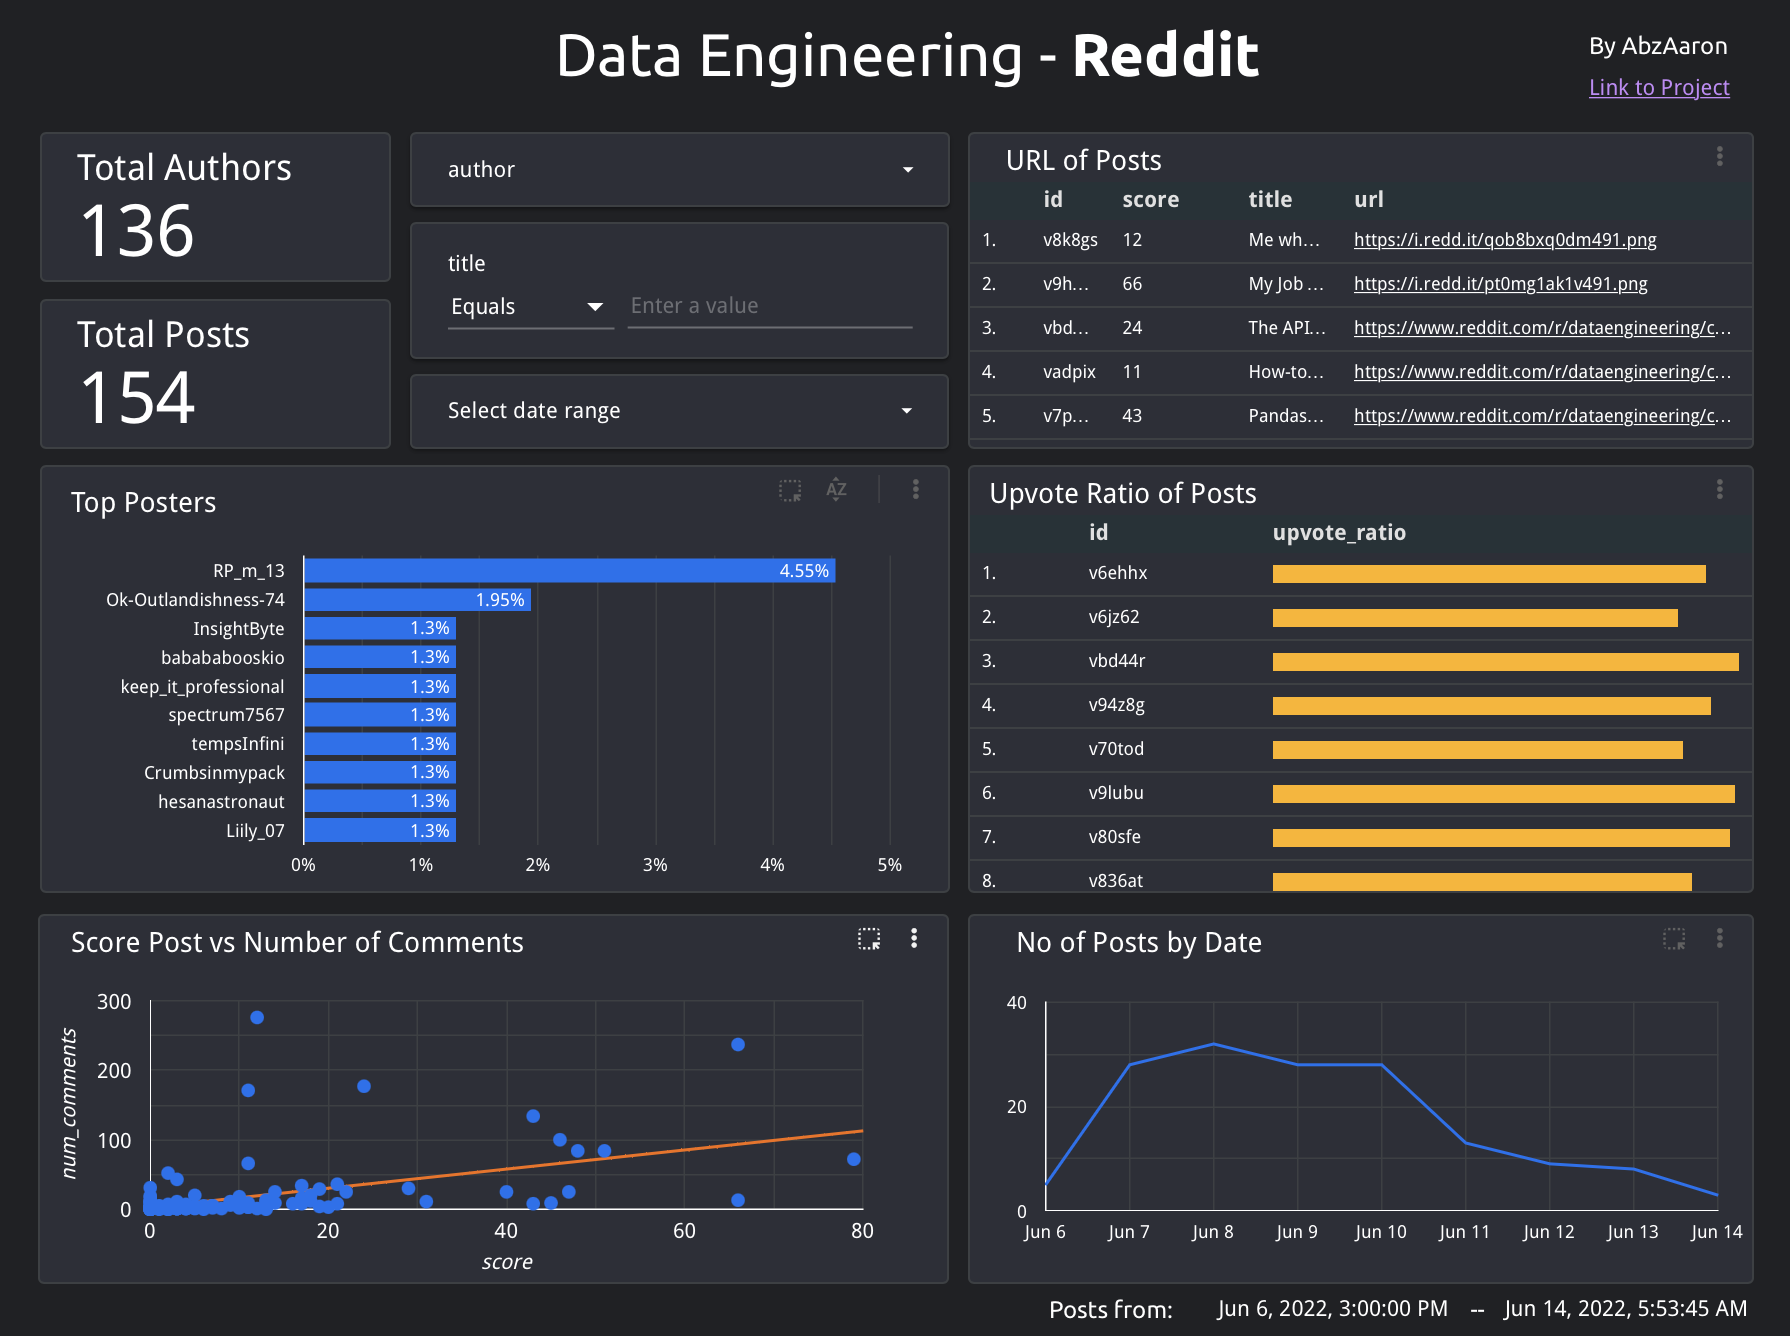
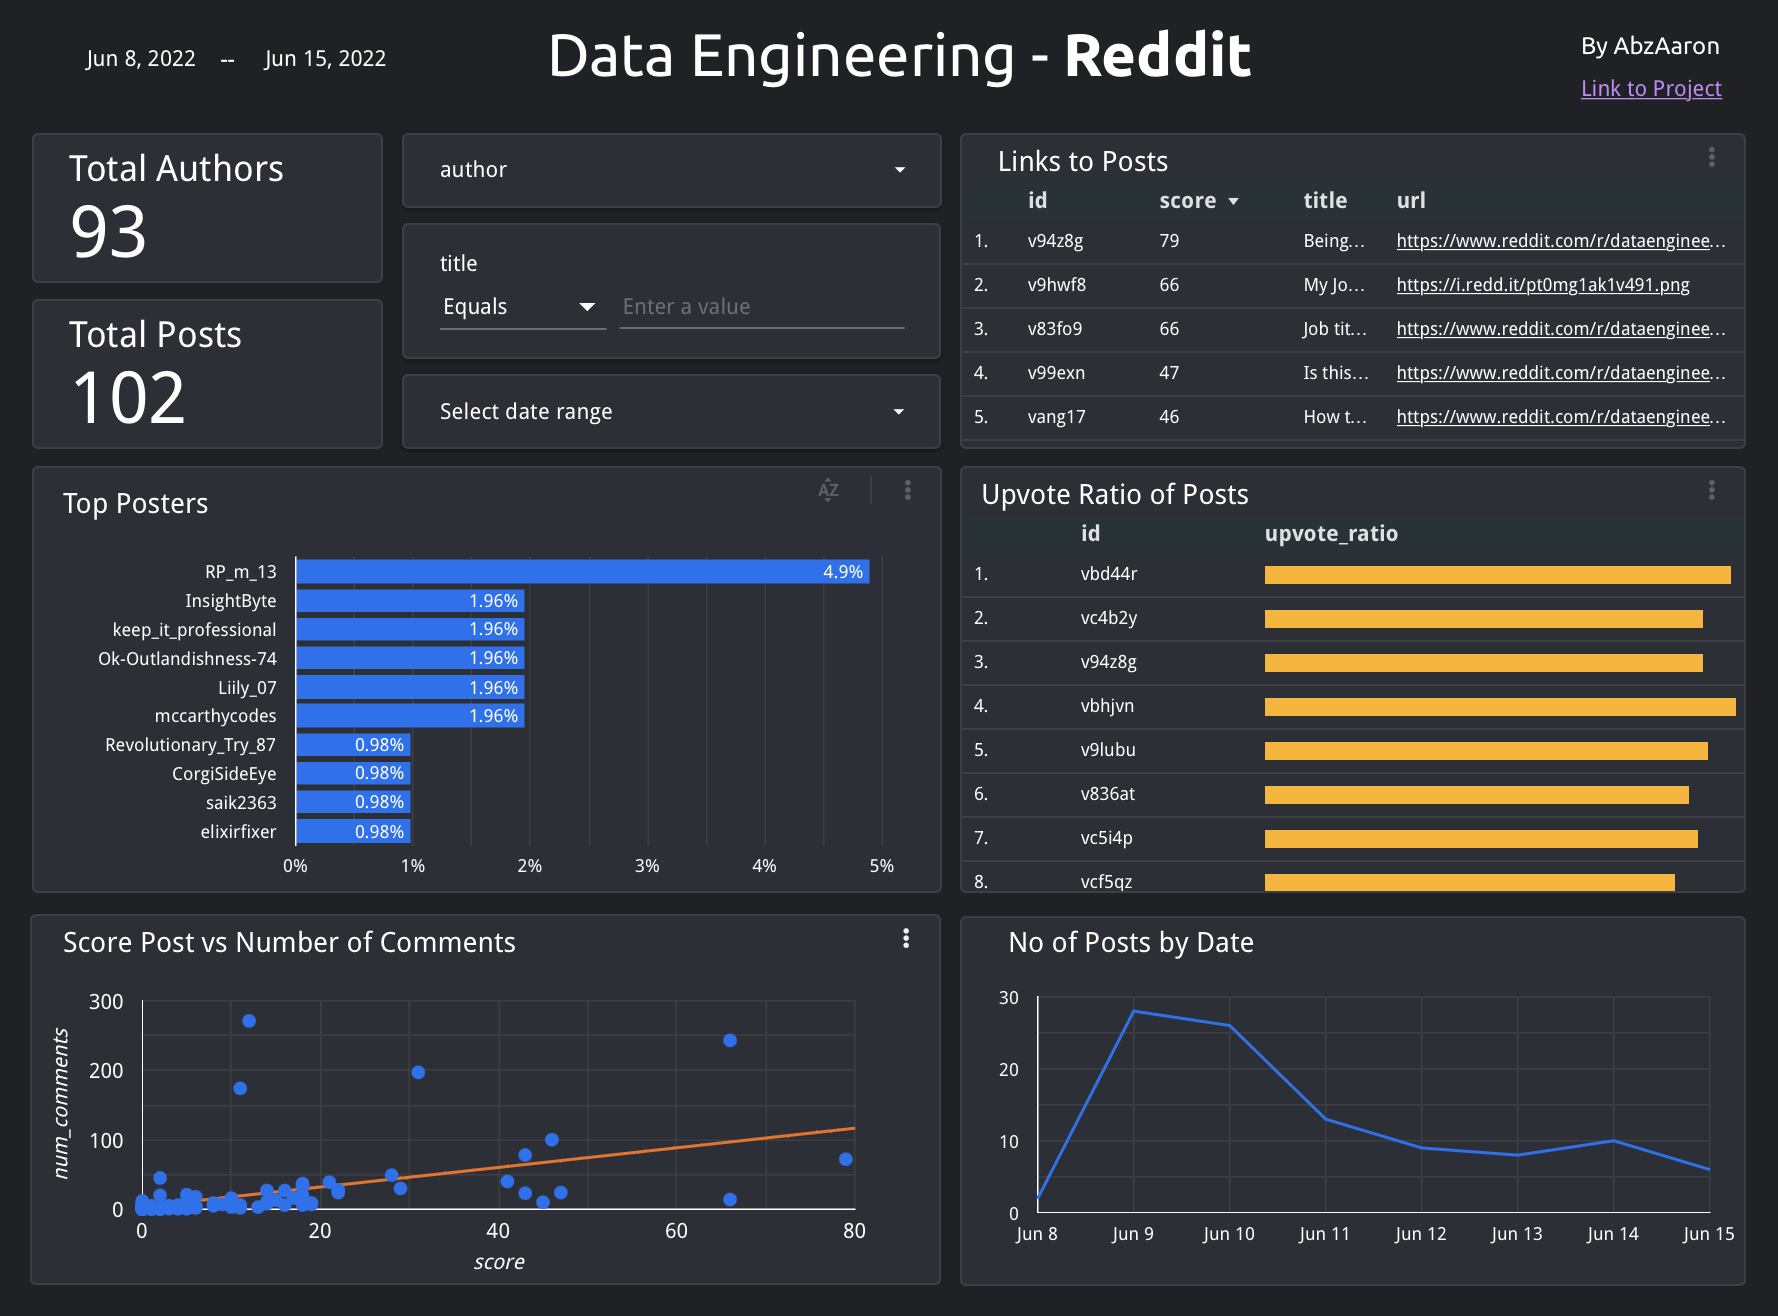
Updated Dashboard

diff --git a/airflow/extraction/extract_reddit_etl.py b/airflow/extraction/extract_reddit_etl.py
@@ -26,7 +26,7 @@ CLIENT_ID = parser.get("reddit_config", "client_id")
 
 # Options for extracting data from PRAW
 SUBREDDIT = 'dataengineering'
-TIME_FILTER = "day"
+TIME_FILTER = "week"
 LIMIT = None
 
 # Fields that will be extracted from Reddit. 

diff --git a/README.md b/README.md
@@ -24,9 +24,9 @@ It also provided a good opportunity to develop skills and experience in a range 
 
 ## Output
 
-[<img src="https://github.com/ABZ-Aaron/Reddit-API-Pipeline/blob/master/images/GDS-Dashboard.png" width=70% height=70%>](https://datastudio.google.com/reporting/632706a4-a7d7-46df-a28d-4a24ab0e8cc4)
+[<img src="https://github.com/ABZ-Aaron/Reddit-API-Pipeline/blob/master/images/GDS-Dashboard.png" width=70% height=70%>](https://datastudio.google.com/reporting/e927fef6-b605-421c-ae29-89a66e11ea18)
 
-* Final output from Google Data Studio. Link [here](https://datastudio.google.com/reporting/632706a4-a7d7-46df-a28d-4a24ab0e8cc4). Note that Dashboard is reading from a static CSV output from Redshift. Redshift database was deleted so as not to incur cost.
+* Final output from Google Data Studio. Link [here](https://datastudio.google.com/reporting/e927fef6-b605-421c-ae29-89a66e11ea18). Note that Dashboard is reading from a static CSV output from Redshift. Redshift database was deleted so as not to incur cost.
 
 ## Setup
 

diff --git a/instructions/visualisation.md b/instructions/visualisation.md
@@ -18,7 +18,7 @@ Feel free to use the default table in Redshift (i.e. reddit) or the newly transf
 
 You can now feel free to create some visualisations. Some tutorial/guides [here](https://support.google.com/datastudio/answer/6283323?hl=en). Here's an example of mine:
 
-[<img src="https://github.com/ABZ-Aaron/Reddit-API-Pipeline/blob/master/images/GDS-Dashboard.png" width=70% height=70%>](https://datastudio.google.com/reporting/632706a4-a7d7-46df-a28d-4a24ab0e8cc4)
+[<img src="https://github.com/ABZ-Aaron/Reddit-API-Pipeline/blob/master/images/GDS-Dashboard.png" width=70% height=70%>](https://datastudio.google.com/reporting/e927fef6-b605-421c-ae29-89a66e11ea18)
 
 You can then publicly share your report by navigating to Share > Manage access.
 
